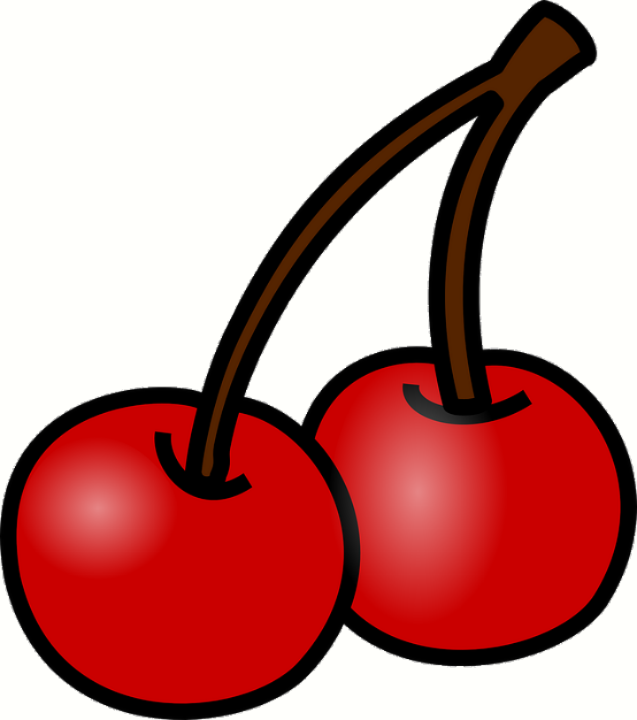
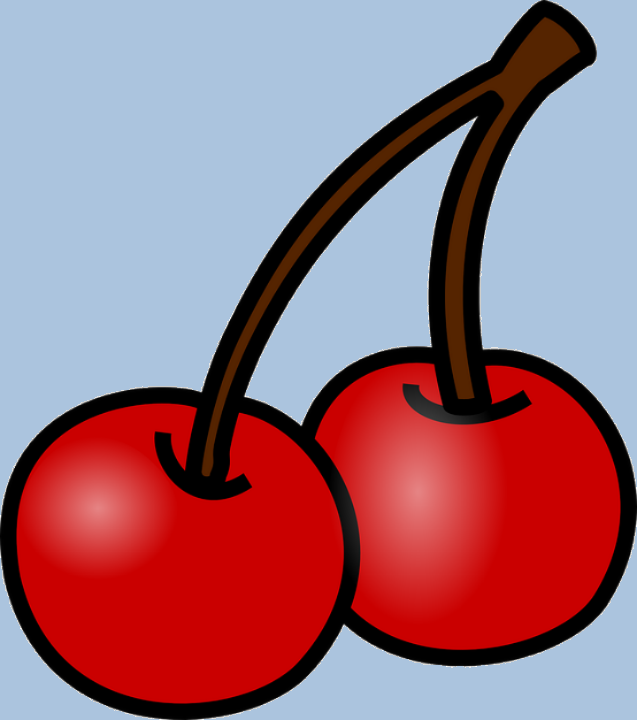
Finished Design and all pages. recolored all assets.

diff --git a/PointOfSale/MenuCatagorySelection.xaml b/PointOfSale/MenuCatagorySelection.xaml
@@ -17,9 +17,45 @@
             <RowDefinition/>
             <RowDefinition/>
         </Grid.RowDefinitions>
-        <Button Click="SelectCombo"  Grid.Row="0" Grid.Column="0">Combos</Button>
-        <Button Click="SelectEntree" Grid.Row="0" Grid.Column="1">Entrees</Button>
-        <Button Click="SelectSide" Grid.Row="1" Grid.Column="0">Sides</Button>
-        <Button Click="SelectDrink" Grid.Row="1" Grid.Column="1">Drinks</Button>
+        <Button Click="SelectCombo"  Grid.Row="0" Grid.Column="0" FontSize="25" FontWeight="ExtraBold" Content="Combos">
+            <Button.Template>
+                <ControlTemplate TargetType="Button">
+                    <Grid>
+                        <Ellipse Fill="MediumSeaGreen" Margin="50,15,50,15"/>
+                        <ContentPresenter HorizontalAlignment="Center" VerticalAlignment="Center"/>
+                    </Grid>
+                </ControlTemplate>
+            </Button.Template>
+        </Button>
+        <Button Click="SelectEntree" Grid.Row="0" Grid.Column="1" FontSize="25" FontWeight="ExtraBold" Content="Entrees">
+            <Button.Template>
+                <ControlTemplate TargetType="Button">
+                    <Grid>
+                        <Ellipse Fill="MediumSeaGreen" Margin="50,15,50,15"/>
+                        <ContentPresenter HorizontalAlignment="Center" VerticalAlignment="Center"/>
+                    </Grid>
+                </ControlTemplate>
+            </Button.Template>
+        </Button>
+        <Button Click="SelectSide" Grid.Row="1" Grid.Column="0" FontSize="25" FontWeight="ExtraBold" Content="Sides">
+            <Button.Template>
+                <ControlTemplate TargetType="Button">
+                    <Grid>
+                        <Ellipse Fill="MediumSeaGreen" Margin="50,15,50,15"/>
+                        <ContentPresenter HorizontalAlignment="Center" VerticalAlignment="Center"/>
+                    </Grid>
+                </ControlTemplate>
+            </Button.Template>
+        </Button>
+        <Button Click="SelectDrink" Grid.Row="1" Grid.Column="1" FontSize="25" FontWeight="ExtraBold" Content="Drinks">
+            <Button.Template>
+                <ControlTemplate TargetType="Button">
+                    <Grid>
+                        <Ellipse Fill="MediumSeaGreen" Margin="50,15,50,15"/>
+                        <ContentPresenter HorizontalAlignment="Center" VerticalAlignment="Center"/>
+                    </Grid>
+                </ControlTemplate>
+            </Button.Template>
+        </Button>
     </Grid>
 </Page>

diff --git a/PointOfSale/MainWindow.xaml b/PointOfSale/MainWindow.xaml
@@ -8,6 +8,6 @@
         Title="MainWindow" Height="450" Width="800">
     <DockPanel>
         <TextBlock DockPanel.Dock="Right" Width="200" TextAlignment="Center" Background="LightSteelBlue">// TODO: Order</TextBlock>
-        <Frame Source="MenuCatagorySelection.xaml"></Frame>
+        <Frame Source="MenuCatagorySelection.xaml" Background="Honeydew"></Frame>
     </DockPanel>
 </Window>
